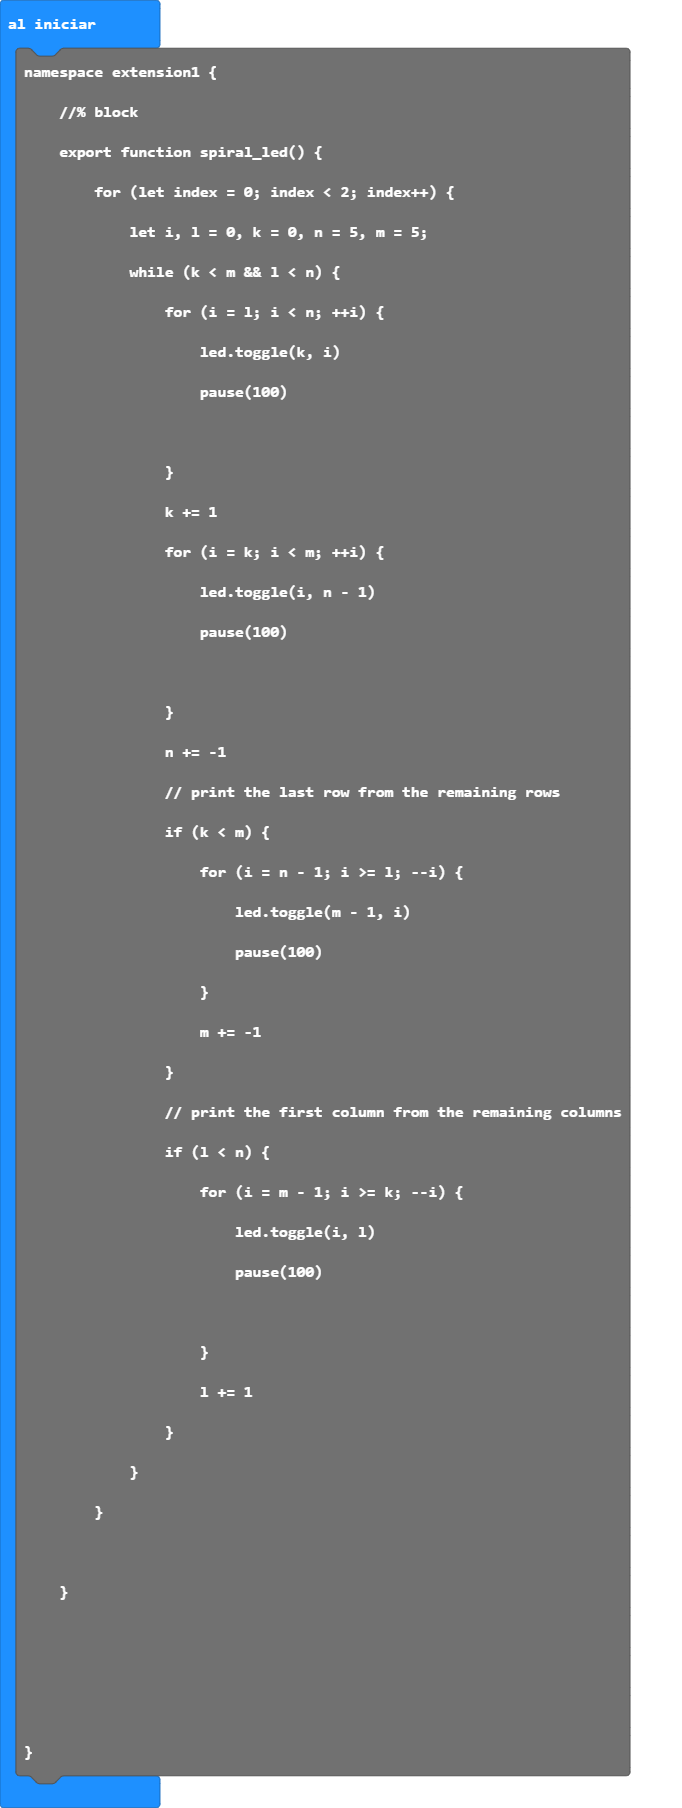
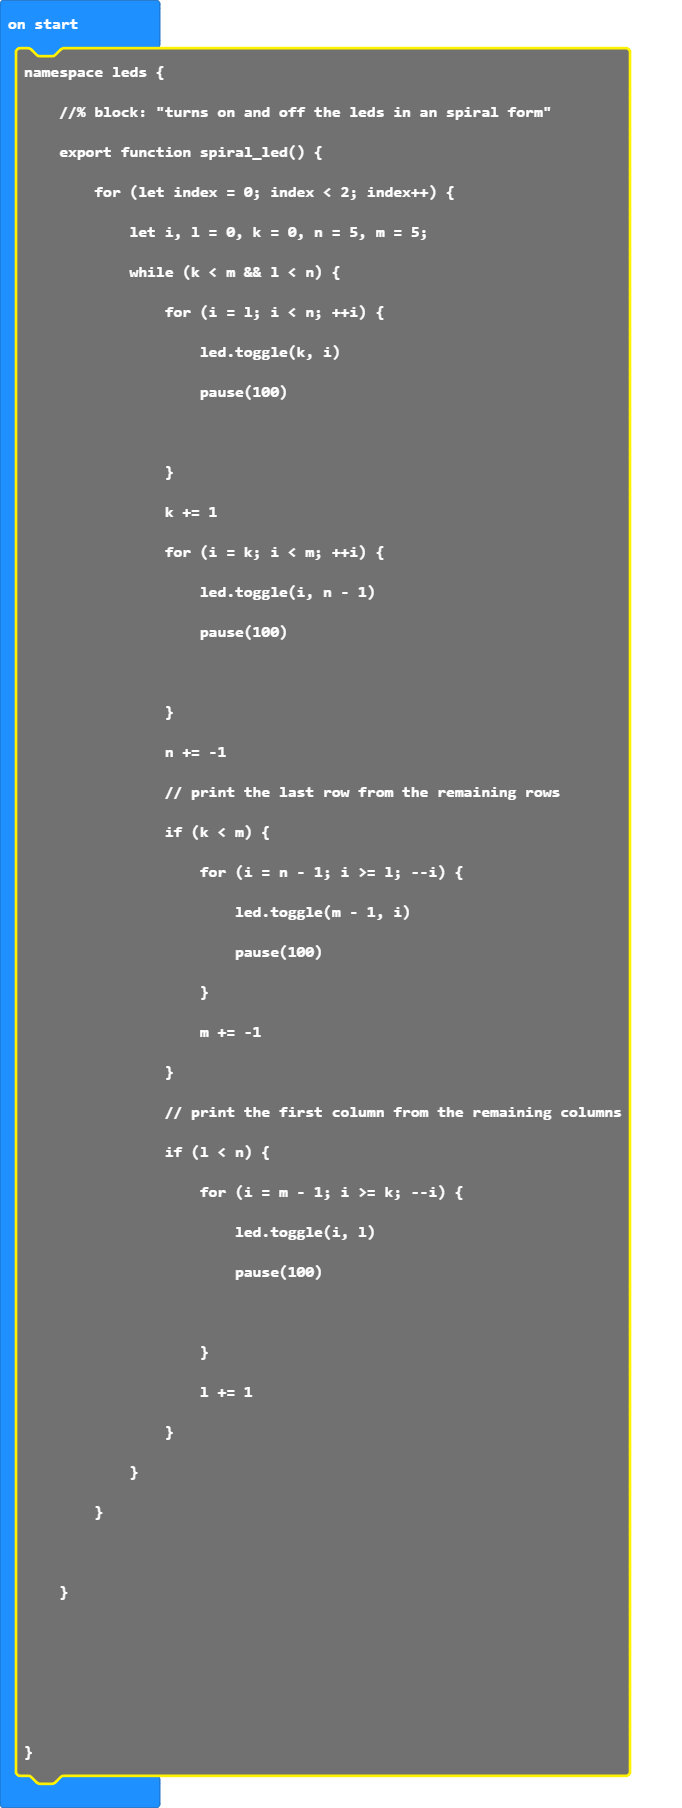
Update pxt.json, main.blocks, main.ts

diff --git a/main.ts b/main.ts
@@ -1,5 +1,3 @@
-//% color=120 weight=100 icon="\uflec"
-//% groups= ['LED matrix','other']
 namespace leds {
     //% block: "turns on and off the leds in an spiral form"
     export function spiral_led() {
